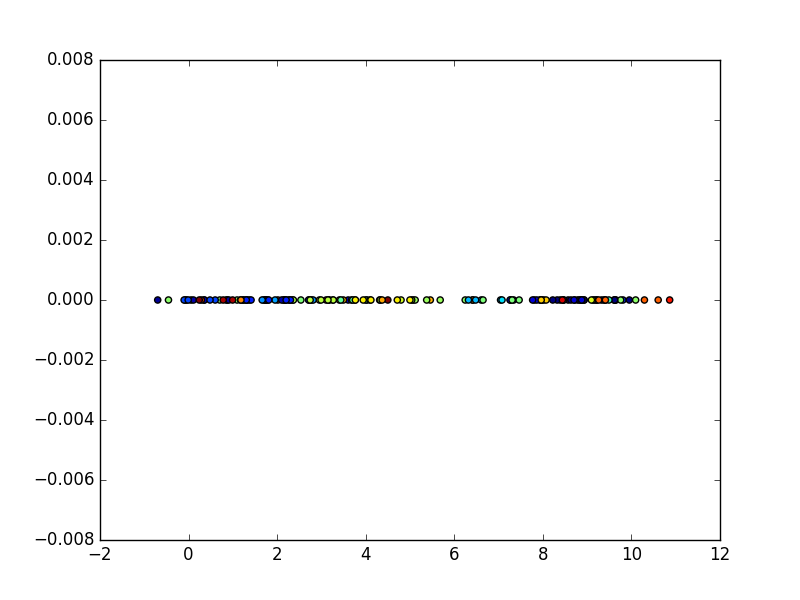
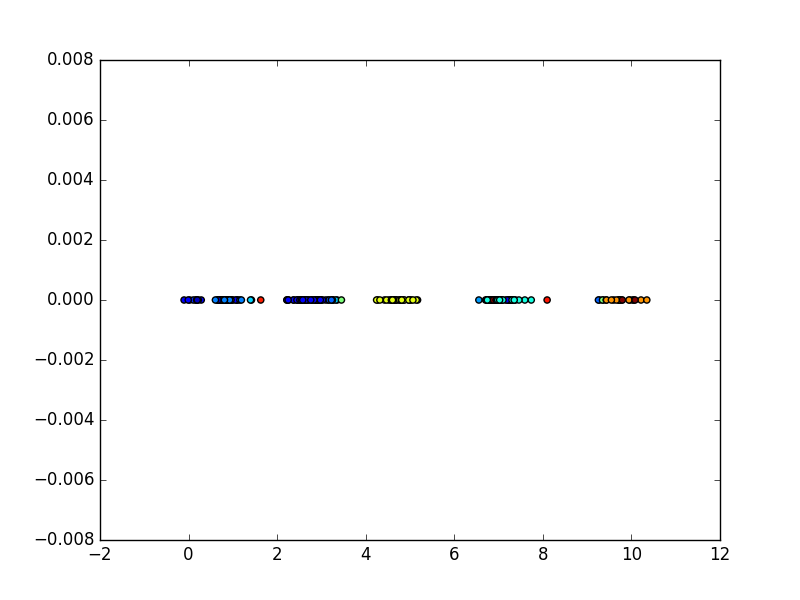
gibbs sampling works better

Changed region(s): [[0.1875, 0.48, 0.8438, 0.51]]

diff --git a/dp.py b/dp.py
@@ -1,4 +1,5 @@
 import numpy as np
+import sys
 import matplotlib.pyplot as plt
 import matplotlib.mlab as mlab
 import matplotlib.animation as animation
@@ -78,21 +79,28 @@ def gibbs(x, c_guess, a_0, t, F):
   At each iteration, these cluster assignments are updated? How exactly is this done?  
   We look at an x_i, we sample it from some posterior distribution, but where do we get this from?  
   """
-  z = np.random.randint(1, c_guess, len(x)) # Random cluster assignments
+  old_z = np.random.randint(1, 2, len(x)) # Random cluster assignments
+  old_z = [1]*len(x)
+  new_z = []
   
   for iter_i in range(t):
-    u = pu(1, np.random.normal(0, 1, len(x)), len(x))
+    # u = pu(1, np.random.normal(0, 1, len(x)), len(x))
     for i, x_i in enumerate(x):
       rand = random.random()
       if rand < (a_0 / float(a_0 + i)):
         q_0 = 1.0/(2.0 * np.sqrt(np.pi)) * np.exp(-(np.square(x_i))/4.0)
         H = np.random.normal(np.array(x_i)/2.0, 0.5)
-        z[i] = q_0 * H # TODO: q_0 is very small, making z[i] = 0 most of the time
+        temp_z = round(a_0 * q_0 * H)
+        new_z = new_z + [temp_z]
       else:
         # F = lambda u : map(int, map(round, np.random.normal(u, 1)*6)) # 1D data
-        z[i] = random.choice(F(u)) #TODO: F should be distributed over possible cluster assignments for x_i, so nonnegative numbers only; maybe a random choice from z?
+        temp_z = F(random.choice(old_z[:i]))
+        new_z = new_z + [temp_z]
+        # z[i] = random.choice(F(u)) 
+    old_z = new_z[:]
+    new_z = []
 
-  return z
+  return old_z
  
 def dpmm(G_0, F, alpha, n):
   """
@@ -224,24 +232,26 @@ with open("1d-data.txt", "r") as f:
   l = ast.literal_eval(f.readline())
   true_clusters = ast.literal_eval(f.readline())
 x = l
-c_guess = 20
-a_0 = 10
-t = 10
-F = lambda u : map(int,map(round,np.random.normal(u, 1)*1)) 
+c_guess = 3
+a_0 = 2
+t = 100
+# F = lambda u : map(int,map(round,np.random.normal(u, 0.25))) 
+F = lambda u : int(round(np.random.normal(u, 1)))
 z = gibbs(x, c_guess, a_0, t, F)
 z_min = min(z)
-z = [i + abs(z_min) for i in z] # TODO: This is a temporary fix; the values for the cluster assignments are too high to plot (matplotlib doesn't provide that many colors)
+z = [i + abs(z_min) + 1 for i in z] # TODO: This is a temporary fix; the values for the cluster assignments are too high to plot (matplotlib doesn't provide that many colors)
 print z
 print true_clusters
 plt.scatter(x, [0]*len(x), c=z)
-#plt.show()
+plt.show()
 
 ## Testing the DPMM
 # Generating 1D data
-"""
-alpha = 10
+'''
+alpha = 2
 n = 100
-F = lambda u : np.random.normal(u, 0.5) # 1D data
+G_0 = np.random.uniform(0, 10, n)
+F = lambda u : np.random.normal(u, 0.25) # 1D data
 clusters = dpmm(G_0, F, alpha, n)
 
 # Associate points with colors
@@ -259,7 +269,7 @@ with open("1d-data.txt", "w") as f:
 
 plt.scatter(points, [0]*len(points), c=colors)
 plt.show()
-"""
+'''
 # Generating 2D data
 """
 alpha = 10
